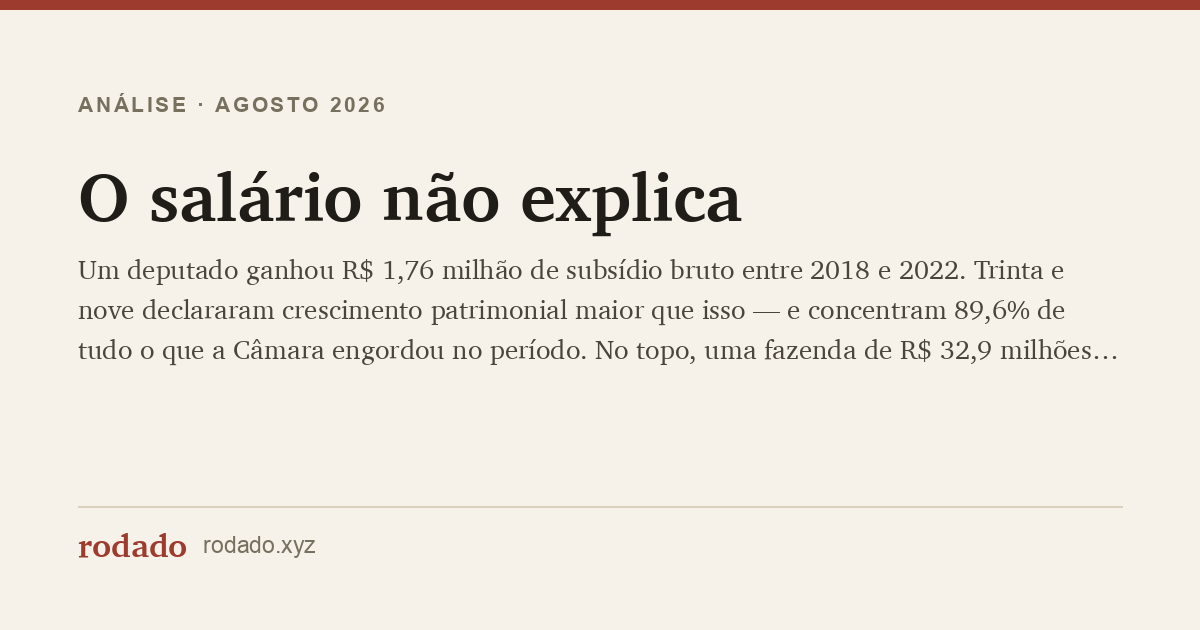
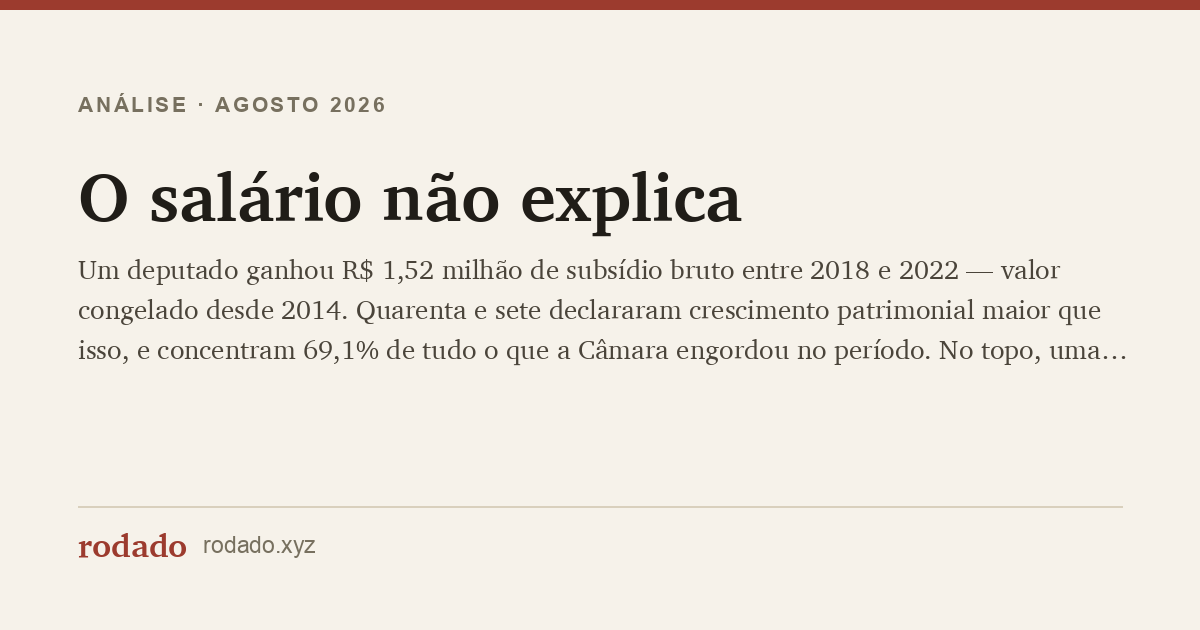
fix: corrige a régua do subsídio em "O salário não explica"
A constante era R$ 1.764.767, derivada de R$ 39.293,32/mês "desde
fevereiro de 2019". O valor existe, a data não: ele só passou a vigorar em
1º de janeiro de 2023, pelo Decreto Legislativo 172/2022. No mandato
2019-2022 o subsídio foi R$ 33.763,00, fixado pelo DL 276/2014 e congelado
desde fevereiro de 2015. A régua estava 16,4% alta, e o erro tornou a
análise mais conservadora do que os dados permitiam.

Com R$ 1.516.521:
- 47 deputados cruzam a linha, não 39
- eles concentram 69,1% do crescimento positivo, não 89,6%
- o capital social das próprias empresas cobre 13 deles, não 11, e sobram
  R$ 162,8 milhões sem contrapartida, não R$ 153,1 milhões
- 157 encolheram, não 150
- por bloco: direita 27 (11,5%), centro 13 (10,3%), esquerda 7 (6,3%) — a
  distância entre direita e centro praticamente some, o que enfraquece a
  leitura por espectro que o capítulo já tratava com cautela
- no gráfico do estoque: 307 abaixo de 1x (65,0%), não 328 (69,5%), e
  mediana 0,70x, não 0,60x

Três figuras regeradas. Os rótulos de valor passam a derivar da constante
em vez de repetir o número à mão.

diff --git a/pages/analises/o-salario-nao-explica/index.html b/pages/analises/o-salario-nao-explica/index.html
@@ -5,7 +5,7 @@
 <meta name="viewport" content="width=device-width, initial-scale=1">
 <!-- gerado por scripts/gera_analises.py — não editar à mão -->
 <title>O salário não explica — rodado</title>
-<meta name="description" content="Um deputado ganhou R$ 1,76 milhão de subsídio bruto entre 2018 e 2022. Trinta e nove declararam crescimento patrimonial maior que isso — e concentram 89,6% de tudo o que a Câmara engordou no período. No topo, uma fazenda de R$ 32,9 milhões que não existia na declaração anterior, e um crédito contra o mesmo parente que saltou de R$ 950 mil para R$ 8,8 milhões. Na outra ponta, 150 encolheram e 17 declararam zero. E metade da Casa — 253 dos 513 — é dona ou sócia de empresa, 933 no total.">
+<meta name="description" content="Um deputado ganhou R$ 1,52 milhão de subsídio bruto entre 2018 e 2022 — valor congelado desde 2014. Quarenta e sete declararam crescimento patrimonial maior que isso, e concentram 69,1% de tudo o que a Câmara engordou no período. No topo, uma fazenda de R$ 32,9 milhões que não existia na declaração anterior, e um crédito contra o mesmo parente que saltou de R$ 950 mil para R$ 8,8 milhões. Na outra ponta, 157 encolheram e 17 declararam zero. E metade da Casa — 253 dos 513 — é dona ou sócia de empresa, 933 no total.">
 <!-- seo:start (gerado por scripts/gera_seo.py — não editar à mão) -->
 <link rel="canonical" href="https://rodado.xyz/analises/o-salario-nao-explica/">
 <meta property="og:type" content="article">
@@ -13,14 +13,14 @@
 <meta property="og:locale" content="pt_BR">
 <meta property="og:url" content="https://rodado.xyz/analises/o-salario-nao-explica/">
 <meta property="og:title" content="O salário não explica">
-<meta property="og:description" content="Um deputado ganhou R$ 1,76 milhão de subsídio bruto entre 2018 e 2022. Trinta e nove declararam crescimento patrimonial maior que isso — e concentram 89,6% de tudo o que a Câmara engordou no período. No topo, uma fazenda de R$ 32,9 milhões que não existia na declaração anterior, e um crédito contra o mesmo parente que saltou de R$ 950 mil para R$ 8,8 milhões. Na outra ponta, 150 encolheram e 17 declararam zero. E metade da Casa — 253 dos 513 — é dona ou sócia de empresa, 933 no total.">
+<meta property="og:description" content="Um deputado ganhou R$ 1,52 milhão de subsídio bruto entre 2018 e 2022 — valor congelado desde 2014. Quarenta e sete declararam crescimento patrimonial maior que isso, e concentram 69,1% de tudo o que a Câmara engordou no período. No topo, uma fazenda de R$ 32,9 milhões que não existia na declaração anterior, e um crédito contra o mesmo parente que saltou de R$ 950 mil para R$ 8,8 milhões. Na outra ponta, 157 encolheram e 17 declararam zero. E metade da Casa — 253 dos 513 — é dona ou sócia de empresa, 933 no total.">
 <meta property="og:image" content="https://rodado.xyz/analises/img/og-o-salario-nao-explica.png">
 <meta property="og:image:width" content="1200">
 <meta property="og:image:height" content="630">
 <meta property="og:image:alt" content="O salário não explica — rodado">
 <meta name="twitter:card" content="summary_large_image">
 <meta name="twitter:title" content="O salário não explica">
-<meta name="twitter:description" content="Um deputado ganhou R$ 1,76 milhão de subsídio bruto entre 2018 e 2022. Trinta e nove declararam crescimento patrimonial maior que isso — e concentram 89,6% de tudo o que a Câmara engordou no período. No topo, uma fazenda de R$ 32,9 milhões que não existia na declaração anterior, e um crédito contra o mesmo parente que saltou de R$ 950 mil para R$ 8,8 milhões. Na outra ponta, 150 encolheram e 17 declararam zero. E metade da Casa — 253 dos 513 — é dona ou sócia de empresa, 933 no total.">
+<meta name="twitter:description" content="Um deputado ganhou R$ 1,52 milhão de subsídio bruto entre 2018 e 2022 — valor congelado desde 2014. Quarenta e sete declararam crescimento patrimonial maior que isso, e concentram 69,1% de tudo o que a Câmara engordou no período. No topo, uma fazenda de R$ 32,9 milhões que não existia na declaração anterior, e um crédito contra o mesmo parente que saltou de R$ 950 mil para R$ 8,8 milhões. Na outra ponta, 157 encolheram e 17 declararam zero. E metade da Casa — 253 dos 513 — é dona ou sócia de empresa, 933 no total.">
 <meta name="twitter:image" content="https://rodado.xyz/analises/img/og-o-salario-nao-explica.png">
 <link rel="icon" href="../../assets/favicon.ico" sizes="any">
 <link rel="icon" type="image/png" sizes="32x32" href="../../assets/favicon-32.png">
@@ -29,7 +29,7 @@
 <link rel="manifest" href="https://rodado.xyz/site.webmanifest">
 <meta name="theme-color" content="#9c3b2e">
 <meta name="robots" content="index,follow,max-image-preview:large,max-snippet:-1">
-<script type="application/ld+json">{"@context":"https://schema.org","@type":"Article","headline":"O salário não explica","description":"Um deputado ganhou R$ 1,76 milhão de subsídio bruto entre 2018 e 2022. Trinta e nove declararam crescimento patrimonial maior que isso — e concentram 89,6% de tudo o que a Câmara engordou no período. No topo, uma fazenda de R$ 32,9 milhões que não existia na declaração anterior, e um crédito contra o mesmo parente que saltou de R$ 950 mil para R$ 8,8 milhões. Na outra ponta, 150 encolheram e 17 declararam zero. E metade da Casa — 253 dos 513 — é dona ou sócia de empresa, 933 no total.","url":"https://rodado.xyz/analises/o-salario-nao-explica/","image":"https://rodado.xyz/analises/img/og-o-salario-nao-explica.png","datePublished":"2026-08","inLanguage":"pt-BR","author":{"@type":"Organization","name":"rodado"},"isPartOf":{"@type":"WebSite","name":"rodado","url":"https://rodado.xyz/"}}</script>
+<script type="application/ld+json">{"@context":"https://schema.org","@type":"Article","headline":"O salário não explica","description":"Um deputado ganhou R$ 1,52 milhão de subsídio bruto entre 2018 e 2022 — valor congelado desde 2014. Quarenta e sete declararam crescimento patrimonial maior que isso, e concentram 69,1% de tudo o que a Câmara engordou no período. No topo, uma fazenda de R$ 32,9 milhões que não existia na declaração anterior, e um crédito contra o mesmo parente que saltou de R$ 950 mil para R$ 8,8 milhões. Na outra ponta, 157 encolheram e 17 declararam zero. E metade da Casa — 253 dos 513 — é dona ou sócia de empresa, 933 no total.","url":"https://rodado.xyz/analises/o-salario-nao-explica/","image":"https://rodado.xyz/analises/img/og-o-salario-nao-explica.png","datePublished":"2026-08","inLanguage":"pt-BR","author":{"@type":"Organization","name":"rodado"},"isPartOf":{"@type":"WebSite","name":"rodado","url":"https://rodado.xyz/"}}</script>
 <!-- seo:end -->
 <!-- a linha do site.css é marca do bloco comum: o gera_seo.py a substitui pelo
      bloco inteiro aqui, e não no fim do <head>, para o analises.css abaixo

diff --git a/scripts/plot_patrimonio_abaixo_subsidio.py b/scripts/plot_patrimonio_abaixo_subsidio.py
@@ -2,7 +2,7 @@
 """O outro lado da mesma régua: quantos deputados declaram ter menos do que o
 mandato lhes pagou.
 
-O gráfico dos múltiplos do subsídio olha para cima — os 39 cujo patrimônio
+O gráfico dos múltiplos do subsídio olha para cima — os 47 cujo patrimônio
 cresceu mais do que o cargo poderia ter pago. Este olha para baixo, e mede
 outra coisa: não o crescimento, mas o **estoque**. Ao fim do mandato, quanto
 cada deputado declara possuir no total, comparado com o que o mandato inteiro
@@ -11,19 +11,19 @@ lhe depositou em conta.
   universo   os mesmos 472 deputados federais eleitos em 2018 que voltaram a
              registrar candidatura em 2022.
   eixo y     patrimônio total declarado no registro de 2022 dividido pelo
-             subsídio bruto do mandato (R$ 1.764.767). 1,0 = o deputado declara
+             subsídio bruto do mandato (R$ 1.516.521). 1,0 = o deputado declara
              possuir exatamente o que o cargo lhe pagou em 42 meses.
   eixo x     os 472 ordenados do menor para o maior.
 
 Por que a comparação não acusa ninguém: o subsídio é bruto. Descontado imposto
-de renda e previdência sobram cerca de R$ 1,25 milhão, e sobre isso ainda incide
+de renda e previdência sobram cerca de R$ 1,1 milhão, e sobre isso ainda incide
 a vida — moradia, escola, viagem, o custo de manter presença em dois estados.
 Declarar menos de 1× é o comportamento esperado de quem gasta o que ganha.
 
 O que o gráfico mostra, então, é a **linha de base**: a forma que uma declaração
-de bens tem quando o salário é a renda principal. É essa forma que torna os 39
+de bens tem quando o salário é a renda principal. É essa forma que torna os 47
 do outro gráfico visíveis como exceção. E é ela que dá escala ao terceiro grupo,
-o dos 133 que declaram menos que o subsídio do mandato e ainda assim declararam
+o dos que declaram menos que o subsídio do mandato e ainda assim declararam
 em 2022 menos do que tinham em 2018.
 
 Ressalva de dado: bens_candidato traz ~1% de linhas byte-idênticas repetidas.
@@ -41,7 +41,14 @@ import subprocess
 import matplotlib.pyplot as plt
 from matplotlib.patches import Rectangle
 
-SUBSIDIO = 1_764_767.0
+SUBSIDIO = 1_516_521.0   # bruto acumulado do mandato entre as duas declarações
+# R$ 33.763,00/mês, fixado pelo Decreto Legislativo 276/2014 com efeitos a
+# partir de 1º/02/2015 e congelado até 31/12/2022 — vigorou, portanto, no
+# mandato inteiro. São 42 meses (fev/2019 a jul/2022) mais os décimos-terceiros
+# de 2019 (proporcional), 2020 e 2021.
+# Antes daqui havia R$ 1.764.767, derivado de R$ 39.293,32/mês "desde fevereiro
+# de 2019". O valor existe, a data não: ele só passou a vigorar em 1º/01/2023,
+# pelo Decreto Legislativo 172/2022. A régua estava 16,4% alta.
 
 SQL = """SET enable_progress_bar=false;
 WITH bens AS (
@@ -156,14 +163,16 @@ ax.text(len(abaixo) - 9, 1.30,
         f"a curva cruza a linha no deputado {len(abaixo)}",
         fontsize=11.5, color=TXT, va="bottom", ha="right", zorder=7)
 
-ax.text(8, 1.09, "1× = R\\$ 1,76 milhão, todo o subsídio bruto do mandato",
+ax.text(8, 1.09, f"1× = R\\$ {SUBSIDIO/1e6:.2f}".replace(".", ",")
+        + " milhão, todo o subsídio bruto do mandato",
         fontsize=11.5, color=TXT2, va="bottom", ha="left", zorder=7)
 
 # mediana
 ax.plot([n // 2 - 0.5], [mediana], marker="o", ms=5.5, color=TXT,
         zorder=7, mec=SURFACE, mew=1.2)
 ax.text(n // 2 - 12, mediana + 0.13,
-        f"mediana: {('%.2f' % mediana).replace('.', ',')}× — R\\$ 1,05 milhão",
+        f"mediana: {('%.2f' % mediana).replace('.', ',')}× — R\\$ "
+        + f"{mediana*SUBSIDIO/1e6:.2f}".replace(".", ",") + " milhão",
         fontsize=11, color=TXT2, va="bottom", ha="right", zorder=7)
 
 ax.text(n - 66, 3.52,
@@ -203,7 +212,7 @@ for x, cor, rot in ((0.088, ABAIXO, f"declara menos do que o mandato pagou ({len
 
 fig.text(0.088, 0.124,
          "Fonte: Tribunal Superior Eleitoral — declarações de bens nos registros de candidatura de 2018 e 2022. Subsídio: Câmara dos Deputados,\n"
-         "R\\$ 39.293,32 por mês de fevereiro de 2019 a julho de 2022, mais os décimos-terceiros — R\\$ 1.764.767 bruto, antes de imposto de renda,\n"
+         "R\\$ 33.763,00 por mês de fevereiro de 2019 a julho de 2022, mais os décimos-terceiros — R\\$ 1.516.521 bruto, antes de imposto de renda,\n"
          "previdência e qualquer despesa. Universo: os 472 deputados eleitos em 2018 que voltaram a registrar candidatura em 2022, os únicos\n"
          "com os dois pontos da série. A declaração do TSE segue a regra do imposto de renda e registra bens pelo custo de aquisição.\n"
          "Em vermelho, os 39 cujo patrimônio cresceu mais do que todo o subsídio do mandato — o recorte do gráfico de crescimento patrimonial.\n"

diff --git a/scripts/plot_patrimonio_deputados_2018_2022.py b/scripts/plot_patrimonio_deputados_2018_2022.py
@@ -27,10 +27,10 @@ cobre o crescimento declarado, o excedente não tem, no dado público, de onde t
 vindo. Onde ela cobre, o caso deixa de ser anomalia de salário e vira pergunta
 de contabilidade empresarial — outra apuração, com outros documentos.
 
-Subsídio: R$ 39.293,32/mês desde fevereiro de 2019 (Câmara dos Deputados).
+Subsídio: R$ 33.763,00/mês (Decreto Legislativo 276/2014, efeitos desde 1º/02/2015).
 Entre a declaração de 2018 (registro em agosto) e a de 2022 (idem) o eleito
 exerceu mandato de fev/2019 a jul/2022 — 42 meses — mais os décimos-terceiros
-de 2019 (proporcional), 2020 e 2021. Total bruto: R$ 1.764.767.
+de 2019 (proporcional), 2020 e 2021. Total bruto: R$ 1.516.521.
 
 Por que a comparação faz sentido: a declaração de bens do TSE segue a regra do
 imposto de renda e registra bens pelo **custo de aquisição**, não pelo valor de
@@ -69,7 +69,14 @@ import subprocess
 import matplotlib.pyplot as plt
 from matplotlib.patches import FancyBboxPatch, Rectangle
 
-SUBSIDIO = 1_764_767.0   # bruto acumulado do mandato entre as duas declarações
+SUBSIDIO = 1_516_521.0   # bruto acumulado do mandato entre as duas declarações
+# R$ 33.763,00/mês, fixado pelo Decreto Legislativo 276/2014 com efeitos a
+# partir de 1º/02/2015 e congelado até 31/12/2022 — vigorou, portanto, no
+# mandato inteiro. São 42 meses (fev/2019 a jul/2022) mais os décimos-terceiros
+# de 2019 (proporcional), 2020 e 2021.
+# Antes daqui havia R$ 1.764.767, derivado de R$ 39.293,32/mês "desde fevereiro
+# de 2019". O valor existe, a data não: ele só passou a vigorar em 1º/01/2023,
+# pelo Decreto Legislativo 172/2022. A régua estava 16,4% alta.
 
 SQL = """SET enable_progress_bar=false;
 WITH bens AS (

diff --git a/pages/analises/results/o-salario-nao-explica.md b/pages/analises/results/o-salario-nao-explica.md
@@ -1,15 +1,15 @@
 # O salário não explica
 
-Um deputado federal ganhou **R$ 1,76 milhão** entre a eleição de 2018 e a de 2022. É o subsídio
-bruto integral: R$ 39.293,32 por mês desde fevereiro de 2019, 42 meses de mandato, mais três
+Um deputado federal ganhou **R$ 1,52 milhão** entre a eleição de 2018 e a de 2022. É o subsídio
+bruto integral: R$ 33.763,00 por mês, valor fixado em 2014 e congelado até o fim de 2022, 42 meses de mandato, mais três
 décimos-terceiros — tudo antes de imposto de renda, previdência, aluguel em Brasília, escola de
 filho, mercado, gasolina. É o teto absoluto do que o cargo poderia ter posto no bolso de alguém
 que não gastasse **nada**.
 
-Dos 472 deputados eleitos em 2018 que voltaram a registrar candidatura em 2022, **39 declararam
+Dos 472 deputados eleitos em 2018 que voltaram a registrar candidatura em 2022, **47 declararam
 um crescimento patrimonial maior que esse teto**. Um deles cresceu vinte e três vezes mais.
 
-E os 39 não são uma cauda qualquer: eles concentram **89,6% de todo o crescimento patrimonial**
+E os 47 não são uma cauda qualquer: eles concentram **69,1% de todo o crescimento patrimonial**
 declarado pelos 472. A Câmara inteira engordou R$ 264,4 milhões entre uma eleição e outra, e
 R$ 237 milhões disso couberam a 8% dos deputados.
 
@@ -52,7 +52,7 @@ que o parlamentar consta do quadro societário como sócio ou titular — sem de
 demais sócios, sem exigir que aquele capital tenha virado renda no bolso dele, e sem cobrar que a
 empresa seja anterior ao mandato. É o teto do negócio que ele tem, não o que tirou de lá.
 
-Mesmo assim, **ela cobre o crescimento de apenas 11 dos 39**. Nos outros 28 sobram **R$ 153,1
+Mesmo assim, **ela cobre o crescimento de apenas 11 dos 47**. Nos outros 34 sobram **R$ 162,8
 milhões** de patrimônio novo que nem o salário nem a empresa própria explicam.
 
 A separação reorganiza a lista inteira. **Hercílio Araújo Diniz Filho** e **Misael Varella**, 2º e
@@ -128,7 +128,7 @@ Nove vezes maior, e sozinho equivalente a 116% de todo o crescimento patrimonial
 (outros itens encolheram).
 
 Emprestar R$ 8,8 milhões a um parente durante o mandato exige ter tido R$ 8,8 milhões líquidos
-para emprestar. O subsídio bruto de todo o período foi R$ 1,76 milhão.
+para emprestar. O subsídio bruto de todo o período foi R$ 1,52 milhão.
 
 ### Misael Artur Ferreira Varella (MG) — o grupo familiar
 
@@ -137,7 +137,7 @@ A maior peça é a participação na **Lael Varella Educação e Cultura Ltda** 
 parte de um conjunto de oito empresas do grupo familiar — administração, empreendimentos
 imobiliários, veículos pesados, pneus, águas minerais.
 
-É o perfil mais comum entre os 39: dinastia empresarial consolidada, onde o patrimônio do grupo
+É o perfil mais comum entre os 47: dinastia empresarial consolidada, onde o patrimônio do grupo
 vai sendo progressivamente refletido na declaração pessoal. Menos "enriquecimento súbito", mais
 "contabilidade familiar aparecendo aos poucos" — o que é uma explicação, não uma absolvição:
 a origem do capital continua fora do alcance do dado público.
@@ -183,7 +183,7 @@ deveria tornar a trajetória rastreável.
 
 A pergunta é inevitável, e a resposta tem duas partes que apontam para lados diferentes.
 
-Dos 39 que passam da linha do subsídio, **24 são de partidos de direita, 9 de centro e 6 de
+Dos 47 que passam da linha do subsídio, **27 são de partidos de direita, 13 de centro e 7 de
 esquerda**. Parece muito. Só que o universo já é assim: dos 472 deputados comparáveis, 235
 (49,8%) estavam em legendas de direita no registro de 2022, 126 no centro e 111 na esquerda. O
 grupo que não fecha a conta é majoritariamente de direita, em boa medida, porque **a Câmara é
@@ -191,18 +191,18 @@ majoritariamente de direita**.
 
 | bloco | no universo | acima de 1× | taxa | encolheram | crescimento mediano |
 |---|---:|---:|---:|---:|---:|
-| esquerda | 111 | 6 | 5,4% | 44 (39,6%) | R$ 67 mil |
-| centro | 126 | 9 | 7,1% | 44 (34,9%) | R$ 129 mil |
-| direita | 235 | 24 | 10,2% | 62 (26,4%) | R$ 277 mil |
+| esquerda | 111 | 7 | 6,3% | 45 (40,5%) | R$ 67 mil |
+| centro | 126 | 13 | 10,3% | 46 (36,5%) | R$ 129 mil |
+| direita | 235 | 27 | 11,5% | 66 (28,1%) | R$ 277 mil |
 
-Descontado o tamanho de cada bancada, sobra uma diferença na cauda: 10,2% dos deputados de
-direita cruzaram a linha, contra 7,1% do centro e 5,4% da esquerda — quase o dobro. Mas são 39
+Descontado o tamanho de cada bancada, sobra uma diferença na cauda: 11,5% dos deputados de
+direita cruzaram a linha, contra 10,3% do centro e 6,3% da esquerda. Mas são 47
 casos no total, e uma diferença desse tamanho, nesse número de eventos, ainda cabe dentro do
 acaso. **Com este dado não dá para afirmar que a direita produza proporcionalmente mais casos
 extremos.** A bancada com a maior taxa entre as de porte médio, aliás, é o **PDT — 3 dos 17**,
 que é de esquerda.
 
-Por partido, os 39 se distribuem assim: PL 8 · PP 8 · MDB 3 · UNIÃO 3 · PSDB 3 · PDT 3 · PSD 2 ·
+Por partido, os 47 se distribuem assim: PP 10 · PL 9 · MDB 6 · PSDB 3 · PDT 3 · UNIÃO 3 · PSB 2 · PSC 2 · PSD 2 · PT 2 · REPUBLICANOS 2 ·
 PT 2 · PSC 2 · REPUBLICANOS 2 · PTB 1 · PSB 1 · CIDADANIA 1. A comparação que interessa é com o
 tamanho de cada bancada no universo: o **PP** põe 8 dos seus 48 acima da linha (16,7%), o **PL**
 8 de 74 (10,8%) e o **PT**, segunda maior bancada do grupo, **2 de 53 (3,8%)**. PSOL, PC do B,
@@ -210,8 +210,8 @@ PV, REDE, NOVO, PODE, PATRIOTA, AVANTE, PROS e SOLIDARIEDADE não têm nenhum.
 
 O contraste que de fato resiste não está na cauda — está no meio da distribuição. O deputado de
 direita mediano declarou **R$ 277 mil a mais** em 2022 do que em 2018; o de esquerda, **R$ 67
-mil** — quatro vezes menos. E encolher é bem mais comum à esquerda: 39,6% dos deputados de
-esquerda declararam em 2022 menos do que tinham, contra 26,4% dos de direita. Aí a separação é
+mil** — quatro vezes menos. E encolher é bem mais comum à esquerda: 40,5% dos deputados de
+esquerda declararam em 2022 menos do que tinham, contra 28,1% dos de direita. Aí a separação é
 consistente demais para ser sorteio: **não é que a direita concentre os escândalos, é que a
 Câmara de direita enriqueceu mais, de forma distribuída, ao longo de todo o corpo da bancada.**
 
@@ -220,7 +220,7 @@ ideológica dos partidos brasileiros de Bolognesi, Ribeiro e Codato, montada a p
 a especialistas — esquerda: PT, PSOL, PC do B, PDT, PSB, PV e REDE; centro: MDB, PSD, PSDB,
 PODE, CIDADANIA, SOLIDARIEDADE, AVANTE e PROS; direita: PL, PP, UNIÃO, REPUBLICANOS, PSC, NOVO,
 PTB e PATRIOTA. E o partido considerado é o do registro de **2022**, não o de 2018: **194 dos 472
-trocaram de sigla entre uma eleição e outra** — 14 deles entre os 39 —, então cada deputado entra
+trocaram de sigla entre uma eleição e outra** — 14 deles entre os 47 —, então cada deputado entra
 aqui pela legenda de destino, e não pela de origem.
 
 ---
@@ -247,7 +247,7 @@ apurar. É uma pergunta com data marcada.
 
 ---
 
-## Para onde foi o dinheiro dos 39
+## Para onde foi o dinheiro dos 47
 
 | Tipo de bem | variação agregada |
 |---|---:|
@@ -307,7 +307,7 @@ Rios & Rios, Patrimonial São Félix. E o sétimo colocado é eleito com o nome 
 levou o nome da própria empresa para a urna.
 
 Dois nomes dessa tabela já apareceram na primeira metade desta análise por outro motivo: Misael
-Varella e Glaustin da Fokus estão entre os 39 cujo crescimento patrimonial supera o subsídio do
+Varella e Glaustin da Fokus estão entre os 47 cujo crescimento patrimonial supera o subsídio do
 mandato. Magda Mofatto também.
 
 Uma distinção que muda o número, e que é fácil errar: **ser administrador de uma empresa não é
@@ -329,13 +329,13 @@ teria de ser procurada, caso não tenha.
 
 ## O que este levantamento não diz
 
-Ele **não afirma que os 39 cometeram crime**, e a distinção importa.
+Ele **não afirma que os 47 cometeram crime**, e a distinção importa.
 
 Deputado pode ter renda perfeitamente lícita fora do subsídio: lucro de empresa, aluguel,
 herança, venda de bem com ganho de capital, rendimento de aplicação, renda do cônjuge em regime
-de comunhão. Vários dos 39 são empresários declarados desde antes do mandato, e para eles o
+de comunhão. Vários dos 47 são empresários declarados desde antes do mandato, e para eles o
 crescimento patrimonial é o resultado esperado do negócio, não do cargo — é exatamente o que a
-segunda cor do gráfico separa, e ela absolve 11 dos 39 já no critério mais generoso possível.
+segunda cor do gráfico separa, e ela absolve 13 dos 47 já no critério mais generoso possível.
 
 O que o número mede é outra coisa: **quanto da variação o salário deixa de explicar**. É um
 filtro de triagem, não um veredito. Serve para dizer onde a checagem deve começar — e a checagem
